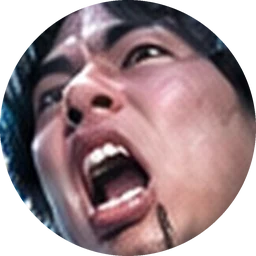
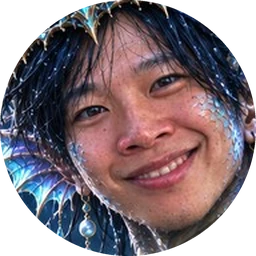
Ver.3.34: リヴァイアサン・ヒロキのリアル絵を更新（裏バージョン・顔アイコンも）
Claude-Session: https://claude.ai/code/session_01CscwrA9Qzzx2ozdNGW4uSD

diff --git a/index.html b/index.html
@@ -225,7 +225,7 @@ html,body{touch-action:manipulation}
  <div id="lineWarn">LINEのアプリ内ブラウザだとセーブが消えることがあります。SafariかChromeで開いてね</div>
  <div id="tYado"><img src="assets/mei_yado.webp" alt=""></div><div id="tYbub"></div>
 <div id="tUpd">🔄 更新を確認</div>
- <div id="tver">Ver.3.33</div>
+ <div id="tver">Ver.3.34</div>
 </div>
 
 <div id="hud">
@@ -1565,7 +1565,7 @@ function* behP3(b){b.rage=true;yield* wait(.5);yield* bigMove(b,'ベヒーモス
   for(let i=0;i<4;i++){const[x,y]=mz(b);for(const sx of[-100,0,100])eb(x+sx,y,aim(x+sx,y),300,SP.spear);fan(x,y,aim(x,y),nn(9),1.2,220,SP.mud);yield* wait(.35);}
   yield* rockRain(2.2,7);
  }}
-const FACEC={"z_king":[375,237],"z_ogre":[324,152],"z_behemoth":[321,152],"z_tankknight":[374,76],"z_centaur":[300,116],"z_darkelf":[417,200],"z_bahamut":[355,187],"z_leviathan":[266,229],"z_poseidon":[337,208],"z_vampire":[352,142],"z_hades":[358,185],"z_dragon":[295,179],"z_dragonemp":[353,174],"z_power":[352,157],"z_satan":[371,240],"z_lucifer":[374,273],"z_gym":[352,169],"z_kinniku":[364,149],"z_elf":[313,143]};
+const FACEC={"z_king":[375,237],"z_ogre":[324,152],"z_behemoth":[321,152],"z_tankknight":[374,76],"z_centaur":[300,116],"z_darkelf":[417,200],"z_bahamut":[355,187],"z_leviathan":[328,196],"z_poseidon":[337,208],"z_vampire":[352,142],"z_hades":[358,185],"z_dragon":[295,179],"z_dragonemp":[353,174],"z_power":[352,157],"z_satan":[371,240],"z_lucifer":[374,273],"z_gym":[352,169],"z_kinniku":[364,149],"z_elf":[313,143]};
 function* cutin(img,name,sub){const me=CUT={key:img,img:IMG[img],chibi:img.startsWith('c_'),name,sub,life:2.6,max:2.6};sfx('phase');while(CUT===me&&me.life>0)yield;if(CUT===me)CUT=null;}
 function* runBoss(b){{const ps=STAGES[curSt]||{};if(!ps.rush&&!preBomb){preBomb=1;drop(rand(220,500),200,'bomb');if(!(RUNBUY.punch&&!RUNBUY.punchUsed))toast('ボムが流れてきた！');}}const bc=(STAGES[curSt]||{}).ch;if(bc===7||bc===8){b.maxhp*=1.2;b.hp=b.maxhp;}{const es=STAGES[curSt]||{},EH={1:.8,2:.85,3:.9};if(!es.um&&!es.rush&&EH[es.ch]){b.maxhp*=({'1-3':.6,'2-3':.6,'3-3':.85})[es.id]||EH[es.ch];b.hp=b.maxhp;}}{const us=STAGES[curSt]||{};if(us.um&&!us.rush){b.maxhp*=1.3;b.hp=b.maxhp;}}if((STAGES[curSt]||{}).um){if(b.th)b.th=b.th.length===2?[.88,.7]:b.th.length===1?[.7]:b.th;}const doPunch=RUNBUY.punch&&!RUNBUY.punchUsed;if(doPunch)RUNBUY.punchUsed=1;boss=b;if(doPunch){while(!b.ready&&!b.dead)yield;if(!b.dead){PFX={t:0,dur:2.6,b,hit:0};$('#toast').classList.remove('on');}}while(!b.dead)yield;const esc=!!b.escaped;boss=null;return esc;}
 function mz(b){return[b.x+b.mx,b.y+b.my];}
